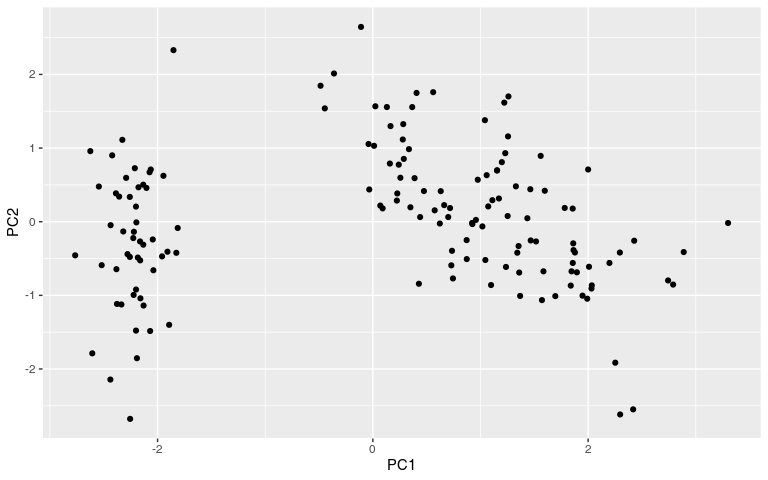
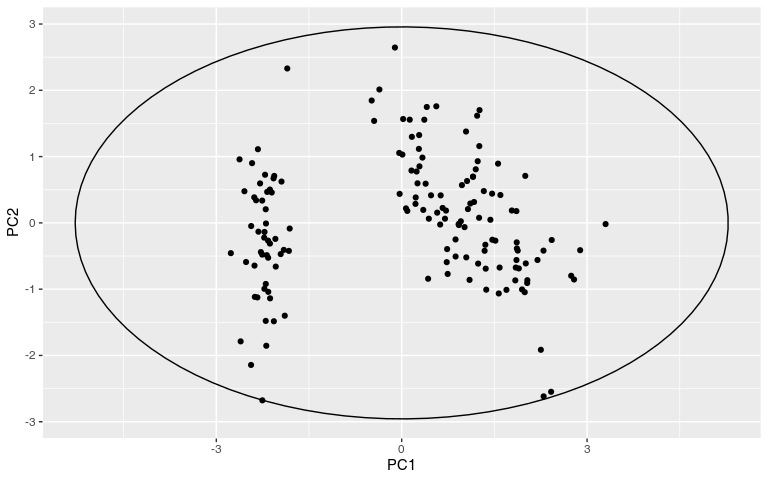
fixed regression due to the wrong default argument

diff --git a/README.md b/README.md
@@ -61,9 +61,6 @@ df <- cbind(iris, pca$x)
 ggplot(df, aes(PC1, PC2)) +
   geom_hotelling(level=.99) +
   geom_point()
-#> Warning: Computation failed in `stat_hotelling()`.
-#> Caused by error in `match.arg()`:
-#> ! 'arg' must be NULL or a character vector
 ```
 
 <img src="man/figures/README-example-1.png" width="50%" style="display: block; margin: auto;" />
@@ -73,9 +70,6 @@ ggplot(df, aes(PC1, PC2)) +
 ggplot(df, aes(PC1, PC2, color=Species)) +
   geom_hotelling() +
   geom_point()
-#> Warning: Computation failed in `stat_hotelling()`.
-#> Caused by error in `match.arg()`:
-#> ! 'arg' must be NULL or a character vector
 ```
 
 <img src="man/figures/README-example-2.png" width="50%" style="display: block; margin: auto;" />
@@ -85,9 +79,6 @@ ggplot(df, aes(PC1, PC2, color=Species)) +
 ggplot(df, aes(PC1, PC2, color=Species)) +
   geom_hotelling(alpha=0.1, aes(fill = Species)) +
   geom_point()
-#> Warning: Computation failed in `stat_hotelling()`.
-#> Caused by error in `match.arg()`:
-#> ! 'arg' must be NULL or a character vector
 ```
 
 <img src="man/figures/README-example-3.png" width="50%" style="display: block; margin: auto;" />
@@ -98,9 +89,6 @@ ggplot(df, aes(PC1, PC2, color=Species)) +
 ggplot(df, aes(PC1, PC2, color=Species)) +
   geom_hotelling(alpha=0.1, aes(fill = Species), level=.99) +
   geom_point()
-#> Warning: Computation failed in `stat_hotelling()`.
-#> Caused by error in `match.arg()`:
-#> ! 'arg' must be NULL or a character vector
 ```
 
 <img src="man/figures/README-example-4.png" width="50%" style="display: block; margin: auto;" />
@@ -113,9 +101,6 @@ ggplot(df, aes(PC1, PC2, group=Species)) +
   geom_hotelling(level = 0.75, alpha=0.1, aes(fill = Species)) +
   scale_color_manual(values=c("TRUE"="red", "FALSE"="grey")) +
   stat_hotelling_points(level = .75, aes(shape = Species, color = after_stat(is_outlier)))
-#> Warning: Computation failed in `stat_hotelling()`.
-#> Caused by error in `match.arg()`:
-#> ! 'arg' must be NULL or a character vector
 ```
 
 <img src="man/figures/README-example2-1.png" width="50%" style="display: block; margin: auto;" />
@@ -125,9 +110,6 @@ ggplot(df, aes(PC1, PC2, group=Species)) +
 ggplot(df, aes(PC1, PC2, group=Species)) +
   geom_hotelling(alpha=0.1, aes(fill = Species)) +
   stat_hotelling_points(size=2, aes(shape = Species, color = after_stat(t2)))
-#> Warning: Computation failed in `stat_hotelling()`.
-#> Caused by error in `match.arg()`:
-#> ! 'arg' must be NULL or a character vector
 ```
 
 <img src="man/figures/README-example2-2.png" width="50%" style="display: block; margin: auto;" />
@@ -141,9 +123,6 @@ ggplot(df, aes(PC1, PC2, group=Species, label=rownames(df))) +
   geom_point(aes(color = Species)) +
   stat_hotelling_points(geom="label", 
                         outlier_only = TRUE)
-#> Warning: Computation failed in `stat_hotelling()`.
-#> Caused by error in `match.arg()`:
-#> ! 'arg' must be NULL or a character vector
 ```
 
 <img src="man/figures/README-example3-1.png" width="50%" style="display: block; margin: auto;" />
@@ -157,9 +136,6 @@ ggplot(df, aes(PC1, PC2, group=Species, label=rownames(df))) +
   geom_point(aes(color = Species)) +
   stat_hotelling_points(geom="label_repel",
                         outlier_only = TRUE)
-#> Warning: Computation failed in `stat_hotelling()`.
-#> Caused by error in `match.arg()`:
-#> ! 'arg' must be NULL or a character vector
 ```
 
 <img src="man/figures/README-example3-2.png" width="50%" style="display: block; margin: auto;" />
